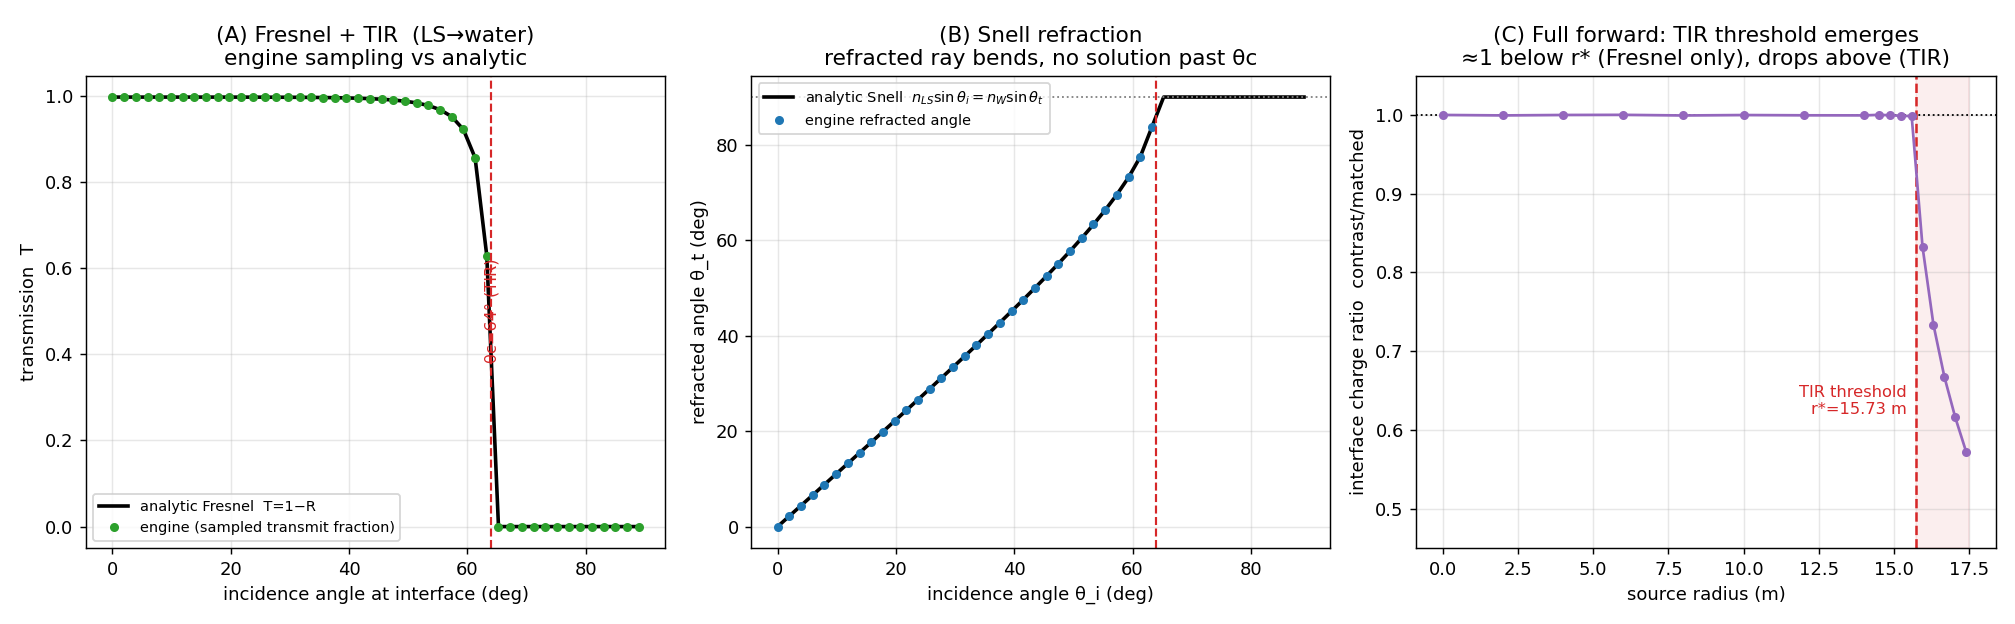
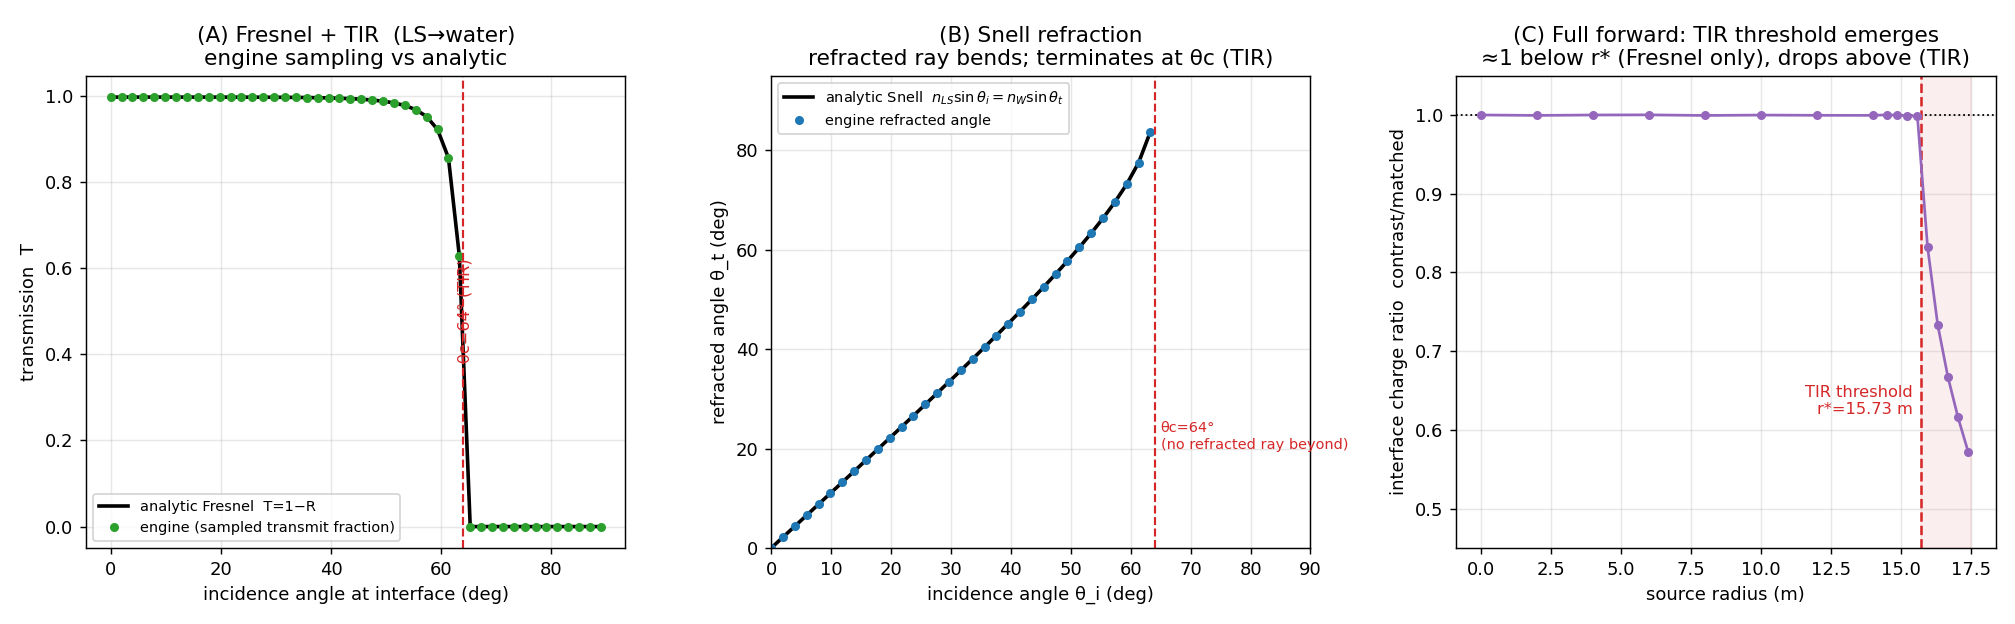
studies: fix Snell line past θc, drop r* from raw-charge panel, benchmark OOM-safe
- validation Panel B: the analytic Snell curve no longer overruns flat at 90°
  beyond the critical angle — past θc there is no refracted ray (TIR), so the
  line now terminates at θc (NaN beyond), matching the engine dots.
- response field: remove the r* line from the raw-charge (left) panel where it
  marks no feature; keep it on the interface-ratio panel.
- benchmark: separate forward/gradient N, catch OOM. On 11 GB GPU the gradient
  at N=4M OOMs; N=1M (K=32) fits (~8.6 GB).

Claude-Session: https://claude.ai/code/session_01QzqUjAApGUu6PW9Bjib5uV

diff --git a/studies/two_boundary_benchmark.py b/studies/two_boundary_benchmark.py
@@ -16,43 +16,53 @@ GEOM = "config/JUNO_nested_labls_geom_config.json"
 PHYS = "config/JUNO_nested_labls_physics_config.json"
 
 
-def bench(K, N, reps=5):
-    dp = DetectorParams.from_flat(scatter_length=50.0, mie_scatter_length=1e6, absorption_length=50.0,
-                                  wall_reflection_rate=0.2, sensor_reflection_rate=0.2, qe=0.065,
-                                  qe_corrections=jnp.ones(10000))
-    sim = setup_event_simulator(GEOM, int(N), temperature=None, K=K, is_calibration=True,
-                                detector_type='nested_sphere', wavelength_mode=True, physics_config=PHYS)
-    src = isotropic_source(position=[0.0, 0.0, 16.5], intensity=5e7, wavelength=430.0)
-    key = jax.random.PRNGKey(0)
+def _dp():
+    return DetectorParams.from_flat(scatter_length=50.0, mie_scatter_length=1e6, absorption_length=50.0,
+                                    wall_reflection_rate=0.2, sensor_reflection_rate=0.2, qe=0.065,
+                                    qe_corrections=jnp.ones(10000))
 
-    def fwd(p):
-        c, t = sim(src, p, key); return c
-    loss = lambda p: jnp.sum(fwd(p))
-    grad = jax.jit(jax.grad(loss))
 
-    # compile (timed)
-    t = time.perf_counter(); fwd(dp).block_until_ready(); t_cf = time.perf_counter() - t
-    t = time.perf_counter(); jax.block_until_ready(grad(dp)); t_cg = time.perf_counter() - t
-    # steady state
-    t = time.perf_counter()
-    for _ in range(reps):
-        fwd(dp).block_until_ready()
-    t_f = (time.perf_counter() - t) / reps
-    t = time.perf_counter()
-    for _ in range(reps):
-        jax.block_until_ready(grad(dp))
-    t_g = (time.perf_counter() - t) / reps
-    return t_cf, t_cg, t_f, t_g
+def _sim(K, N):
+    return setup_event_simulator(GEOM, int(N), temperature=None, K=K, is_calibration=True,
+                                 detector_type='nested_sphere', wavelength_mode=True, physics_config=PHYS)
+
+
+def time_call(fn, dp, reps=5):
+    """Return (compile_s, steady_ms) or (None, None) on OOM."""
+    try:
+        t = time.perf_counter(); jax.block_until_ready(fn(dp)); t_c = time.perf_counter() - t
+        t = time.perf_counter()
+        for _ in range(reps):
+            jax.block_until_ready(fn(dp))
+        return t_c, (time.perf_counter() - t) / reps * 1e3
+    except Exception as e:
+        if "RESOURCE_EXHAUSTED" in str(e) or "Out of memory" in str(e):
+            return None, None
+        raise
 
 
 def main():
-    print("backend:", jax.default_backend())
-    print(f"{'K':>3} {'N':>9} | {'compile fwd':>11} {'compile grad':>12} | "
-          f"{'forward':>9} {'gradient':>9} {'grad/fwd':>8}")
+    print("backend:", jax.default_backend(), "| nested LAB-LS / water, wavelength mode\n")
+    src = isotropic_source(position=[0.0, 0.0, 16.5], intensity=5e7, wavelength=430.0)
+    key = jax.random.PRNGKey(0)
+    dp = _dp()
+
+    print("FORWARD:")
+    print(f"  {'K':>3} {'N':>9} {'compile':>9} {'forward':>9}")
     for K, N in [(24, 1_000_000), (32, 1_000_000), (32, 4_000_000)]:
-        tcf, tcg, tf, tg = bench(K, N)
-        print(f"{K:>3} {N:>9} | {tcf:>10.1f}s {tcg:>11.1f}s | "
-              f"{tf*1e3:>7.1f}ms {tg*1e3:>7.1f}ms {tg/tf:>7.1f}x")
+        sim = _sim(K, N)
+        tc, tf = time_call(lambda p: sim(src, p, key)[0], dp)
+        msg = "OOM" if tf is None else f"{tc:>7.1f}s {tf:>7.1f}ms"
+        print(f"  {K:>3} {N:>9} {msg}")
+
+    print("\nGRADIENT  (jax.grad of Σcharge wrt full DetectorParams):")
+    print(f"  {'K':>3} {'N':>9} {'compile':>9} {'gradient':>9} {'peak mem':>9}")
+    for K, N in [(32, 250_000), (32, 500_000), (32, 1_000_000)]:
+        sim = _sim(K, N)
+        g = jax.jit(jax.grad(lambda p: jnp.sum(sim(src, p, key)[0])))
+        tc, tg = time_call(g, dp)
+        msg = ">11 GB (OOM)" if tg is None else f"{tc:>7.1f}s {tg:>7.1f}ms"
+        print(f"  {K:>3} {N:>9} {msg}")
 
 
 if __name__ == "__main__":

diff --git a/studies/two_boundary_validation.py b/studies/two_boundary_validation.py
@@ -75,7 +75,9 @@ def main():
     ci = np.cos(np.radians(thetas))
     R_an = np.array([float(fresnel_rr(jnp.array(c), N_LS, N_W)[0]) for c in ci])
     T_an = 1 - R_an
-    snell = np.degrees(np.arcsin(np.clip(N_LS / N_W * np.sin(np.radians(thetas)), 0, 1)))
+    # Snell θ_t exists only for θ_i <= θc; past θc there is NO refracted ray (TIR) → NaN
+    sin_t = N_LS / N_W * np.sin(np.radians(thetas))
+    snell = np.where(sin_t <= 1.0, np.degrees(np.arcsin(np.clip(sin_t, 0, 1))), np.nan)
     print(f"θc={THETA_C:.1f}°, r*={R_STAR:.2f} m")
     print("forward threshold scan...")
     radii, fwd = forward_threshold()
@@ -96,9 +98,10 @@ def _plot(th, T_emp, T_an, th_t, snell, radii, fwd):
     b.plot(th, snell, "k-", lw=2, label=r"analytic Snell  $n_{LS}\sin\theta_i=n_W\sin\theta_t$")
     b.plot(th, th_t, "o", color="C0", ms=4, label="engine refracted angle")
     b.axvline(THETA_C, color="C3", ls="--", lw=1.2)
-    b.axhline(90, color="gray", ls=":", lw=1)
+    b.text(THETA_C + 1, 20, f"θc={THETA_C:.0f}°\n(no refracted ray beyond)", color="C3", fontsize=8)
     b.set_xlabel("incidence angle θ_i (deg)"); b.set_ylabel("refracted angle θ_t (deg)")
-    b.set_title("(B) Snell refraction\nrefracted ray bends, no solution past θc"); b.legend(fontsize=8); b.grid(alpha=0.3)
+    b.set_xlim(0, 90); b.set_ylim(0, 95)
+    b.set_title("(B) Snell refraction\nrefracted ray bends; terminates at θc (TIR)"); b.legend(fontsize=8); b.grid(alpha=0.3)
     # C: forward threshold
     c.axhline(1.0, color="k", ls=":", lw=1)
     c.axvspan(R_STAR, 17.5, color="C3", alpha=0.08)

diff --git a/studies/two_boundary_sensor_response.py b/studies/two_boundary_sensor_response.py
@@ -116,8 +116,6 @@ def _plot(R, cos, Mc, Mm, edge):
     # ---- Panel 1: the single-sensor response field g(r_s, γ) ----
     im1 = a1.imshow(Mc, origin="lower", aspect="auto", extent=ext, cmap="turbo",
                     norm=LogNorm(vmin=max(Mc[Mc > 0].min(), Mc.max() * 1e-3), vmax=Mc.max()))
-    a1.axhline(R_STAR, color="w", ls="--", lw=1.0)
-    a1.text(-0.97, R_STAR + 0.2, r"$r^*$", color="w", fontsize=10)
     a1.set_xlabel(XLAB); a1.set_ylabel(r"source radius $r_s$ (m)")
     a1.set_title(r"Charge collected by one sensor vs. source position", fontsize=11)
     _gamma_axis(a1)
